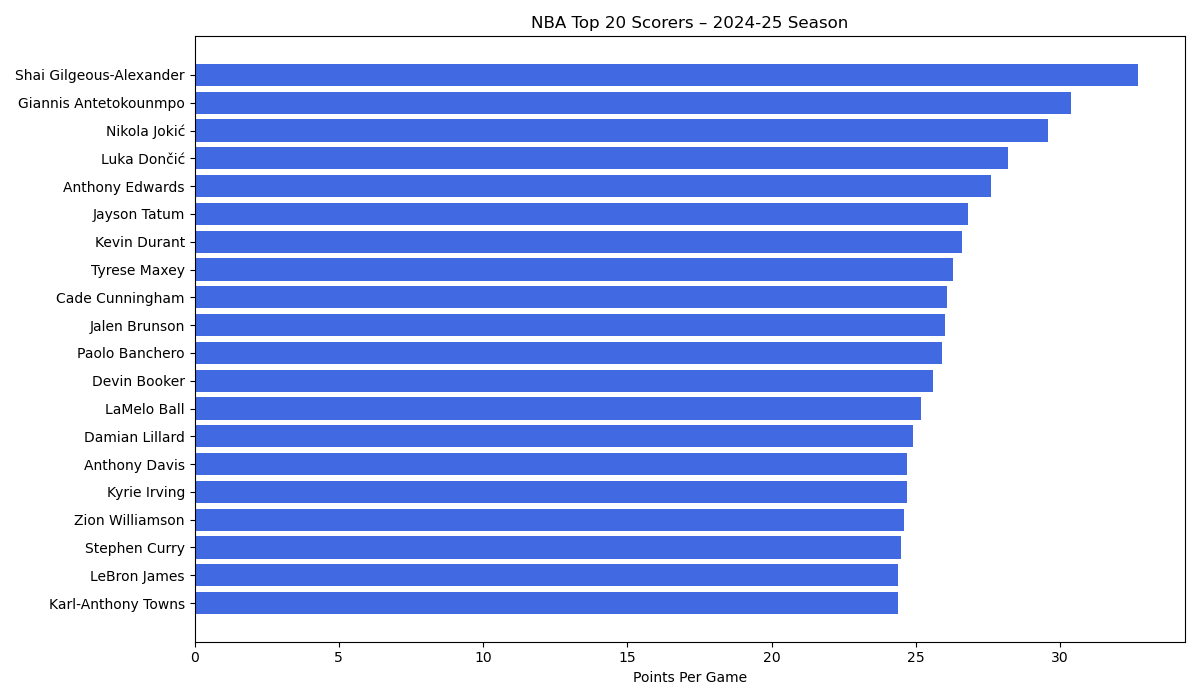
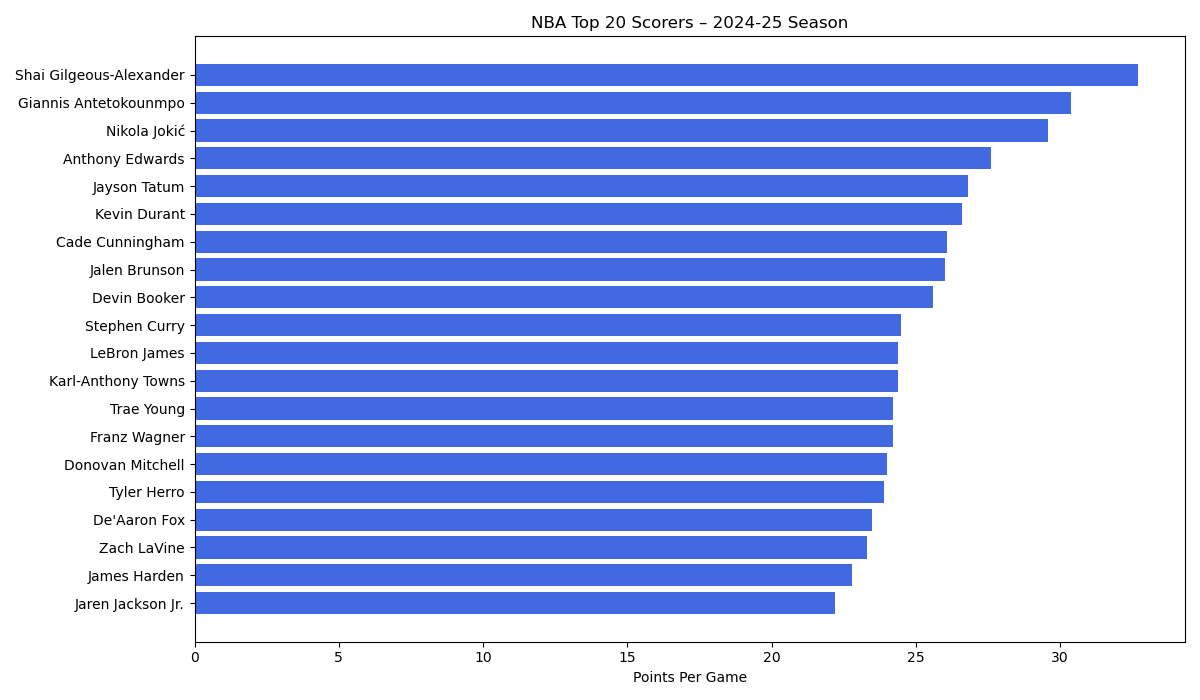
Add README

diff --git a/analysis.py b/analysis.py
@@ -17,8 +17,8 @@ df = stats.get_data_frames()[0]
 # Keep only useful columns
 df = df[['PLAYER_NAME', 'TEAM_ABBREVIATION', 'GP', 'PTS', 'REB', 'AST', 'FG_PCT', 'FG3_PCT', 'MIN']]
 
-# Filter to players with at least 20 games played
-df = df[df['GP'] >= 20]
+# Filter to players with at least 60 games played
+df = df[df['GP'] >= 60]
 
 # Sort by points per game
 df = df.sort_values('PTS', ascending=False)

diff --git a/README.md b/README.md
@@ -1,2 +1,28 @@
-# basketball-analytics
-NBA player and team analysis using python
+# 🏀 Basketball Analytics
+
+Exploring NBA player and team performance using Python, pandas, and the NBA API.
+This is my first test at using python, github, VScode and Claude to do data analysis
+
+## Projects
+
+### 1. Top 20 Scorers – 2024-25 NBA Season
+Pulls live player stats from the NBA API and identifies the top 20 points-per-game leaders for the 2024-25 season.
+
+**Key findings:**
+- Shai Gilgeous-Alexander led the league at 32.7 PPG
+- Analysis filters to players with 20+ games played for statistical reliability
+- Visualised as a horizontal bar chart
+
+**Tools used:** Python, pandas, nba_api, matplotlib
+
+## Setup
+
+1. Clone this repo
+2. Install dependencies:
+   pip install nba_api pandas matplotlib
+3. Run the analysis:
+   python analysis.py
+
+## About
+Built by Tom Carruthers — Data Science student at Deakin University, Melbourne.
+Passionate about applying data science to basketball and sport analytics.
